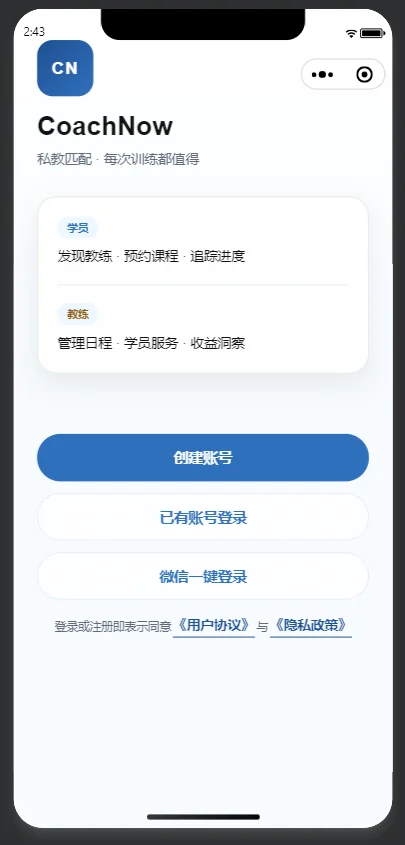
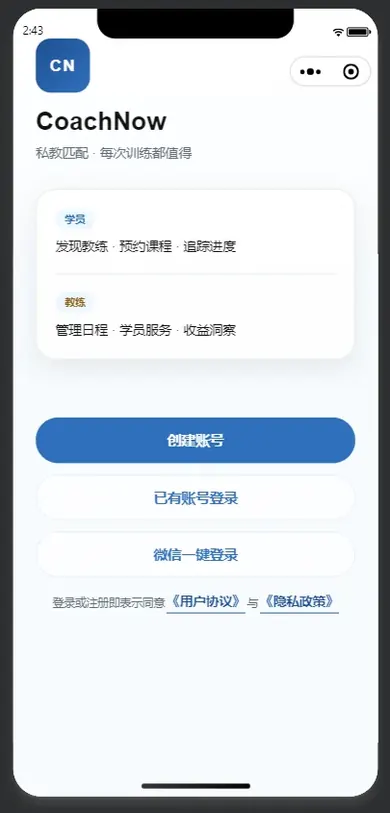
Optimize project screenshots and improve gallery layout.
Recompress images to 390px WebP, add cover thumbnail, two-column phone-frame gallery, and consistent display sizing.

diff --git a/assets/css/extended/custom.css b/assets/css/extended/custom.css
@@ -197,8 +197,9 @@ header .nav {
 
 .project-card-cover {
   aspect-ratio: 16 / 10;
+  max-height: 200px;
   overflow: hidden;
-  background: var(--code-bg);
+  background: linear-gradient(180deg, #eef4fb 0%, #f7fbff 100%);
 }
 
 .project-card-cover img {
@@ -303,17 +304,82 @@ header .nav {
   margin-top: 0.75rem;
 }
 
-.project-detail-content img {
-  width: 100%;
-  max-width: 720px;
-  margin: 1.25rem auto;
-  display: block;
-  border-radius: 12px;
-  border: 1px solid var(--border);
-  box-shadow: 0 8px 28px rgba(0, 0, 0, 0.06);
+/* 界面预览 · 双列截图画廊 */
+.project-gallery {
+  display: grid;
+  grid-template-columns: repeat(2, minmax(0, 1fr));
+  gap: 2rem 1.75rem;
+  margin: 2rem 0 2.5rem;
 }
 
-.project-detail-content h3 {
+.project-shot-item {
+  display: flex;
+  flex-direction: column;
+  align-items: center;
+  text-align: center;
+}
+
+.project-shot-item h3 {
+  font-size: 1.05rem;
+  font-weight: 700;
+  margin: 0 0 0.5rem;
+  color: var(--primary);
+  width: 100%;
+}
+
+.project-shot-item > p {
+  font-size: 0.88rem;
+  line-height: 1.6;
+  color: var(--secondary);
+  margin: 0 0 1rem;
+  max-width: 320px;
+}
+
+.project-shot {
+  margin: 0;
+  width: 100%;
+  max-width: 280px;
+}
+
+.project-shot__frame {
+  background: linear-gradient(180deg, #e8eef5 0%, #f4f8fc 100%);
+  border-radius: 20px;
+  padding: 10px;
+  border: 1px solid var(--border);
+  box-shadow: 0 10px 32px rgba(15, 40, 80, 0.1);
+}
+
+.project-shot__img {
+  display: block;
+  width: 100%;
+  height: auto;
+  aspect-ratio: 390 / 844;
+  object-fit: contain;
+  object-position: top center;
+  border-radius: 12px;
+  background: #fff;
+}
+
+.project-shot__caption {
+  margin-top: 0.6rem;
+  font-size: 0.78rem;
+  color: var(--tertiary);
+  text-align: center;
+}
+
+.project-detail-content > h2 {
+  margin-top: 2.5rem;
+}
+
+.project-detail-content img:not(.project-shot__img) {
+  width: 100%;
+  max-width: 280px;
+  margin: 1rem auto;
+  display: block;
+  border-radius: 12px;
+}
+
+.project-detail-content h3:not(.project-shot-item h3) {
   font-size: 1.1rem;
   font-weight: 700;
   margin-top: 2rem;
@@ -360,5 +426,18 @@ header .nav {
 
   .project-detail-header h1 {
     font-size: 1.75rem;
+  }
+
+  .project-gallery {
+    grid-template-columns: 1fr;
+    gap: 2.5rem;
+  }
+
+  .project-shot {
+    max-width: 260px;
+  }
+
+  .project-card-cover {
+    max-height: 180px;
   }
 }

diff --git a/layouts/_markup/render-image.html b/layouts/_markup/render-image.html
@@ -1,7 +1,8 @@
 {{- $u := urls.Parse .Destination -}}
 {{- $src := $u.String -}}
+{{- $path := "" -}}
 {{- if not $u.IsAbs -}}
-  {{- $path := strings.TrimPrefix "./" $u.Path }}
+  {{- $path = strings.TrimPrefix "./" $u.Path }}
   {{- $path = strings.TrimPrefix "/" $path }}
   {{- with or (.PageInner.Resources.Get $path) (resources.Get $path) -}}
     {{- $src = .RelPermalink -}}
@@ -18,6 +19,24 @@
     {{- end -}}
   {{- end -}}
 {{- end -}}
+{{- $isProjectShot := and .Page (eq .Page.Section "projects") (strings.Contains $path "projects/coachnow/") -}}
+{{- if $isProjectShot -}}
+<figure class="project-shot">
+  <div class="project-shot__frame">
+    <img
+      src="{{ $src }}"
+      alt="{{ .Text }}"
+      width="390"
+      height="844"
+      loading="lazy"
+      decoding="async"
+      class="project-shot__img">
+  </div>
+  {{- with .Text -}}
+  <figcaption class="project-shot__caption">{{ . }}</figcaption>
+  {{- end -}}
+</figure>
+{{- else -}}
 {{- $attributes := merge .Attributes (dict "alt" .Text "src" $src "title" (.Title | transform.HTMLEscape) "loading" "lazy") -}}
 <img
   {{- range $k, $v := $attributes -}}
@@ -25,3 +44,4 @@
       {{- printf " %s=%q" $k $v | safeHTMLAttr -}}
     {{- end -}}
   {{- end -}}>
+{{- end -}}

diff --git a/content/projects/coachnow.md b/content/projects/coachnow.md
@@ -4,7 +4,7 @@ date: 2025-03-01
 draft: false
 summary: "健身私教预约平台 · 连接教练与学员的全栈微服务项目"
 cover:
-  image: projects/coachnow/welcome.webp
+  image: projects/coachnow/cover-thumb.webp
   alt: CoachNow 启动页
 tags:
   - Java
@@ -32,65 +32,69 @@ weight: 1
 
 ## 界面预览
 
-### 启动与登录
+<div class="project-gallery">
 
-品牌落地页，区分学员 / 教练能力，支持手机号注册与微信一键登录。
-
+<div class="project-shot-item">
+<h3>启动与登录</h3>
+<p>品牌落地页，区分学员 / 教练能力，支持手机号注册与微信一键登录。</p>
 ![启动页](projects/coachnow/welcome.webp)
+</div>
 
-### 课程详情 · 购课
-
-学员端查看课程说明、选择节数套餐，一键购买课包并进入支付流程。
-
+<div class="project-shot-item">
+<h3>课程详情 · 购课</h3>
+<p>学员端查看课程说明、选择节数套餐，一键购买课包并进入支付流程。</p>
 ![课程详情](projects/coachnow/course-detail.webp)
+</div>
 
-### 教练工作台
-
-今日待上课、活跃学员 KPI，扫码下课、排课、学员与课程管理入口。
-
+<div class="project-shot-item">
+<h3>教练工作台</h3>
+<p>今日待上课、活跃学员 KPI，扫码下课、排课与学员管理入口。</p>
 ![教练工作台](projects/coachnow/coach-workbench.webp)
+</div>
 
-### 排课计划
-
-按日期查看预约与上课状态，支持「已预约 / 上课中 / 已完成」全流程。
-
+<div class="project-shot-item">
+<h3>排课计划</h3>
+<p>按日期查看预约与上课状态，支持「已预约 / 上课中 / 已完成」全流程。</p>
 ![排课计划](projects/coachnow/schedule-plan.webp)
+</div>
 
-### 上课码核销
-
-排课详情支持输入上课码确认到课，课程状态从「上课中」流转至完课。
-
+<div class="project-shot-item">
+<h3>上课码核销</h3>
+<p>排课详情支持输入上课码确认到课，课程状态从「上课中」流转至完课。</p>
 ![上课码核销](projects/coachnow/class-code.webp)
+</div>
 
-### 我的时段
-
-配置学员可预约时段、容量与时长，实时展示可预约 / 已占用状态。
-
+<div class="project-shot-item">
+<h3>我的时段</h3>
+<p>配置学员可预约时段、容量与时长，实时展示可预约 / 已占用状态。</p>
 ![我的时段](projects/coachnow/time-slots.webp)
+</div>
 
-### 为学员安排上课
-
-教练可为已购课包学员手动指定时段，查看剩余课时并一键排入可预约档期。
-
+<div class="project-shot-item">
+<h3>为学员安排上课</h3>
+<p>教练可为已购课包学员手动指定时段，查看剩余课时并一键排入可预约档期。</p>
 ![安排学员上课](projects/coachnow/assign-student.webp)
+</div>
 
-### 广场动态
-
-教练与学员发布训练动态，支持同城浏览、点赞与互动。
-
+<div class="project-shot-item">
+<h3>广场动态</h3>
+<p>教练与学员发布训练动态，支持同城浏览、点赞与互动。</p>
 ![广场动态](projects/coachnow/square.webp)
+</div>
 
-### 我的学员
-
-查看课包余量、预约与完课记录，支持发消息、安排上课。
-
+<div class="project-shot-item">
+<h3>我的学员</h3>
+<p>查看课包余量、预约与完课记录，支持发消息、安排上课。</p>
 ![我的学员](projects/coachnow/students.webp)
+</div>
 
-### 即时通讯
-
-教练与学员一对一私信，支持 WebSocket 实时消息与历史记录。
-
+<div class="project-shot-item">
+<h3>即时通讯</h3>
+<p>教练与学员一对一私信，支持 WebSocket 实时消息与历史记录。</p>
 ![即时通讯](projects/coachnow/im-chat.webp)
+</div>
+
+</div>
 
 ## 技术栈
 
